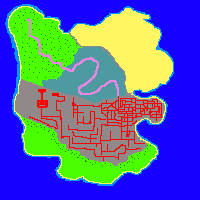
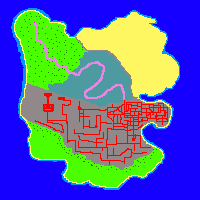
поправил карту и размер мира

diff --git a/www/js/map/map.js b/www/js/map/map.js
@@ -17,10 +17,10 @@ class Map {
 		Map.ID_START_POSITION = 0xFF00FF;
 
 		this.map = new Array();
-		for (var i = 0; i < 150; i++) { 
+		for (var i = 0; i < 200; i++) { 
 			this.map[i] = new Array();
 
-			for (var j = 0; j < 150; j++) { 
+			for (var j = 0; j < 200; j++) { 
 				this.map[i][j] = game.textures.getPixel(i, j, 'map')._color;
 			}
 		}
